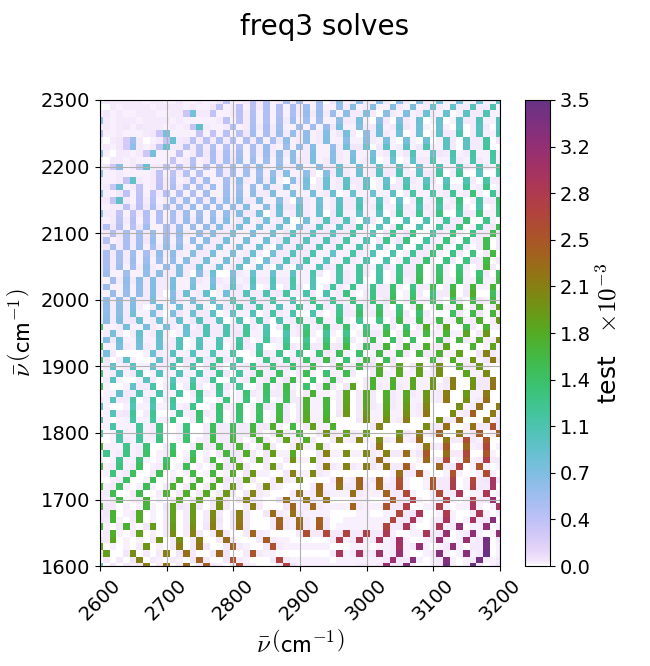
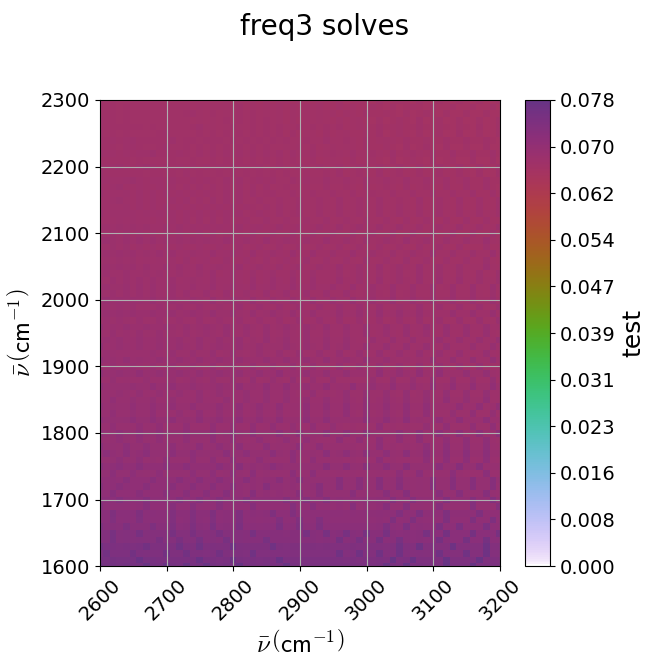
gitignore

diff --git a/scripts/example10.py b/scripts/example10.py
@@ -5,51 +5,48 @@ import numpy as np
 import os
 from config.definitions import ROOT_DIR
 from sympy import *
-
+import copy
 
 """Simulation of a map of expected angles to achieve phasematching in planar geometry in the liquid layer
 of a multilayer sapphire cell.   Positive solutions for w2 only, then M factor plotted for a single angle.   Test of
 the create_layer w/ mole fraction method.   Note that the mole fractioned values of n and alpha do not necssarily
 sum correctly because mixtures can interact with each other to modify results."""
 
+
 # filepath = os.path.join(ROOT_DIR, "tests")
 filepath = os.path.join(os.getcwd(), "tests")
-lay1file = os.path.join(filepath, "Ch2Cl2n_paste.txt")
+lay1afile = os.path.join(filepath, "CCl4_paste.txt")
 lay2file = os.path.join(filepath, "MeOH_kozma_ApplSpec_paste.txt")
-# lay4file = os.path.join(filepath, "CH3CN_kn_ApplSpec_Kozma_paste.dat")
 lay3file = os.path.join(filepath, "sapphire1.txt")
 
-tkdcm = 0.01  # cm
-# tkacn= 0.01 #cm
-tksap = 0.02  # cm
+tkccl4 = 0.0127  # cm
+tksap = 0.016  # cm
 
 # generation of a IsoSample
 samp1 = pc.IsoSample.IsoSample()
-desc = "FWM cell with fw sapphire, sample dcm:meoh, and bw sapphire"
+desc = "FWM cell with fw sapphire, sample ccl4:meoh, and bw sapphire"
 samp1.description = desc
 samp1.load_layer(lay3file, tksap, label="sapfw")
 
 layfilelist = list()
-molfraclist = [0.75, 0.25]
-layfilelist.append(lay1file)
+molfraclist = [0.9, 0.10]
+layfilelist.append(lay1afile)
 layfilelist.append(lay2file)
 
-samp1.create_layer(layfilelist, molfraclist, thickness=tkdcm, label="dcm_meoh")
-samp1.load_layer(lay2file, tksap, label="sapbw")
-
+samp1.create_layer(layfilelist, molfraclist, thickness=tkccl4, label="ccl4_meoh")
+samp1.load_layer(lay3file, tksap, label="sapbw")
 
 # generation of a Lasers object.
 las = pc.Lasers.Lasers()
-arr1 = [2200.0, 3150.0, 19000.0]
+arr1 = [2200.0, 3150.0, 18500.0]
 las.add_frequencies(arr1)
-arr2 = [15.0, -7.0, 0.0]
+arr2 = [13.0, -8.0, 0.0]
 las.add_angles(arr2)
 arr3 = [-1, 1, 1]
 las.add_k_coeffs(arr3)
 arr4 = [1, 1, 1]
 las.add_pols(arr4)
 las.change_geometry("planar")
-
 
 w1start = 1800.00
 w1end = 2000.00
@@ -58,8 +55,8 @@ w2end = 3000.00
 
 var1 = np.linspace(w1start, w1end, 41)[None, :]
 var1a = np.linspace(w1start, w1end, 41)
-var2 = np.linspace(w2start, w2end, 61)[:, None]
-var2a = np.linspace(w2start, w2end, 61)
+var2 = np.linspace(w2start, w2end, 41)[:, None]
+var2a = np.linspace(w2start, w2end, 41)
 
 ch1 = np.zeros([len(var1a), len(var2a)])
 ch2 = np.zeros([len(var1a), len(var2a)])
@@ -72,7 +69,6 @@ mold = int(0)
 data = wt.Data(name="angle solve positive")
 data.create_variable(name="w1", units="wn", values=var1.T)
 data.create_variable(name="w2", units="wn", values=var2.T)
-
 
 #  positive solution.
 for m in range(len(var1a)):
@@ -103,9 +99,8 @@ for m in range(len(var1a)):
             else:
                 ch2[m, n] = float("nan")
 
-
 # fixed angle M factor solver
-angle1 = 10.5
+angle1 = 13
 
 las.change_angle(1, angle1)
 las.change_angle(2, arr2[1])
@@ -116,6 +111,9 @@ for m in range(len(var1a)):
         las.change_freq(2, var2a[n])
         Mlist, Mphase, tklist, Tlist = pc.phasematch.m_calc(samp1, las)
         ch3[m, n] = np.abs(Mlist[1])
+
+
+Mlist, Mphase, tklist, Tlist = pc.phasematch.m_calc(samp1, las)
 
 data.transform("w2", "w1")
 
@@ -131,3 +129,5 @@ plt.show()
 
 wt.artists.quick2D(data, channel=1)
 plt.show()
+
+pass

diff --git a/phasematching_calc/phasematch.py b/phasematching_calc/phasematch.py
@@ -4,6 +4,7 @@ from ._isosample import IsoSample
 from ._isosample import Layer
 from sympy import S, FiniteSet, Interval, oo
 import time
+import copy
 
 # prototypes
 Iso = IsoSample()
@@ -443,8 +444,8 @@ def _m_plot(Iso, Las, layernum, freqnum, side=1):
         anglelist = list(range(-limit, 0, 1))
 
     mlist = list()
-    Lastemp2 = Las
-    Isotemp2 = Iso
+    Lastemp2 = copy.deepcopy(Las)
+    Isotemp2 = copy.deepcopy(Iso)
     for k in range(layernum):
         Isotemp2.layers[k].suppress_absorbances()
 
@@ -835,10 +836,10 @@ def solve_angle(Iso, Las, layernum, freqnum, frequency=None, isclose=False, amt=
         return ValueError("freqnum cannot be less than 1")
 
     freqs = Las.frequencies
-    Lastemp = Las
-    Isotemp = Iso
-    Lastemp2 = Las
-    Isotemp2 = Iso
+    Lastemp = copy.deepcopy(Las)
+    Isotemp = copy.deepcopy(Iso)
+    Lastemp2 = copy.deepcopy(Las)
+    Isotemp2 = copy.deepcopy(Iso)
 
     numfreqs = len(freqs)
 
@@ -1050,9 +1051,9 @@ def solve_frequency(Iso, Las, layernum, freqnum, amt=None, isclose=False):
     flag = int(0)
     numfreqs = len(freqs)
 
-    Isotemp = Iso
-    Isotemp2 = Iso
-    Lastemp = Las
+    Isotemp = copy.deepcopy(Iso)
+    Isotemp2 = copy.deepcopy(Iso)
+    Lastemp = copy.deepcopy(Las)
 
     if isclose:
         if amt is None:

diff --git a/scripts/example.py b/scripts/example.py
@@ -51,8 +51,10 @@ for m in range(len(var1)):
     for n in range(len(var2a)):
         las.change_freq(1, var1[m])
         las.change_freq(2, var2a[n])
+
         Mlist, Mphase, tklist, Tlist = pc.phasematch.m_calc(samp1, las)
         ch1[m, n] = np.abs(Mlist[1])
+
 
 data = wt.Data(name="FWM cell water caf2 planar DOVE")
 data.create_variable(name="w1", units="wn", values=var1)

diff --git a/docs/examples.rst b/docs/examples.rst
@@ -943,8 +943,7 @@ sum correctly because mixtures can interact with each other to modify results.
 .. image:: Figure_10b.png
 
 As mentioned above, it is important to note that the effective refractive index and absorption coefficient does not
-necessarily equate with the mole fractions of the components of each mixture.   In this case, breakup of methanol
-clusters by the dichloromethane would alter the Hydrogen bonding of the methanol and therefore affect its infrared spectrum.
-(The visible portion of the refractive index and absorption coeffecient is less likely to be affected as neither solvent
-is strongly absorptive in the Visible.)  Nevertheless, there is a pretext for using this additive method to estimate
+necessarily equate with the mole fractions of the components of each mixture.   Hydrogen bonded liquids are an example
+where if made very dilute in an inert solvent would have greatly narrowed lineshapes and thus have a different spectrum.
+Nevertheless, there is a pretext for using this additive method to estimate
 phasematching geometries as it may give the user a location to which to begin experimentally finding optimal conditions.
